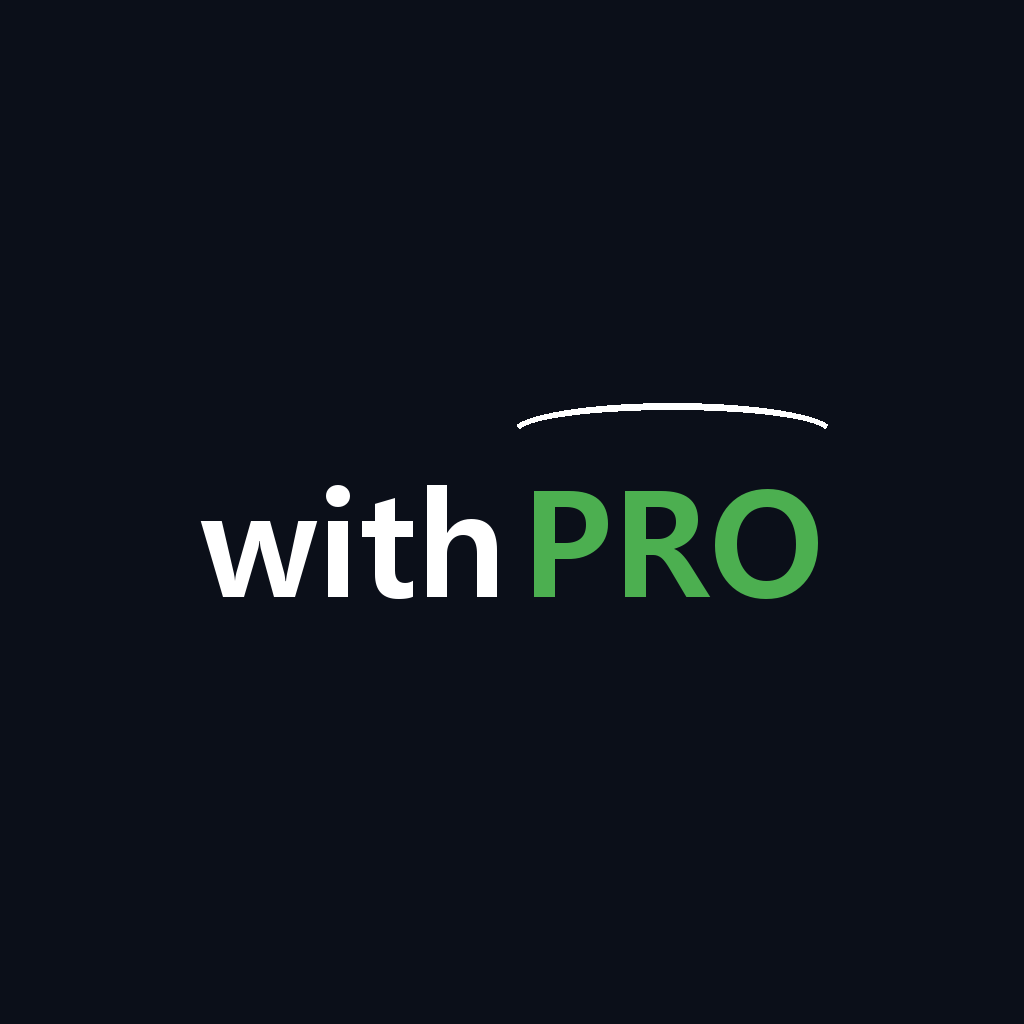
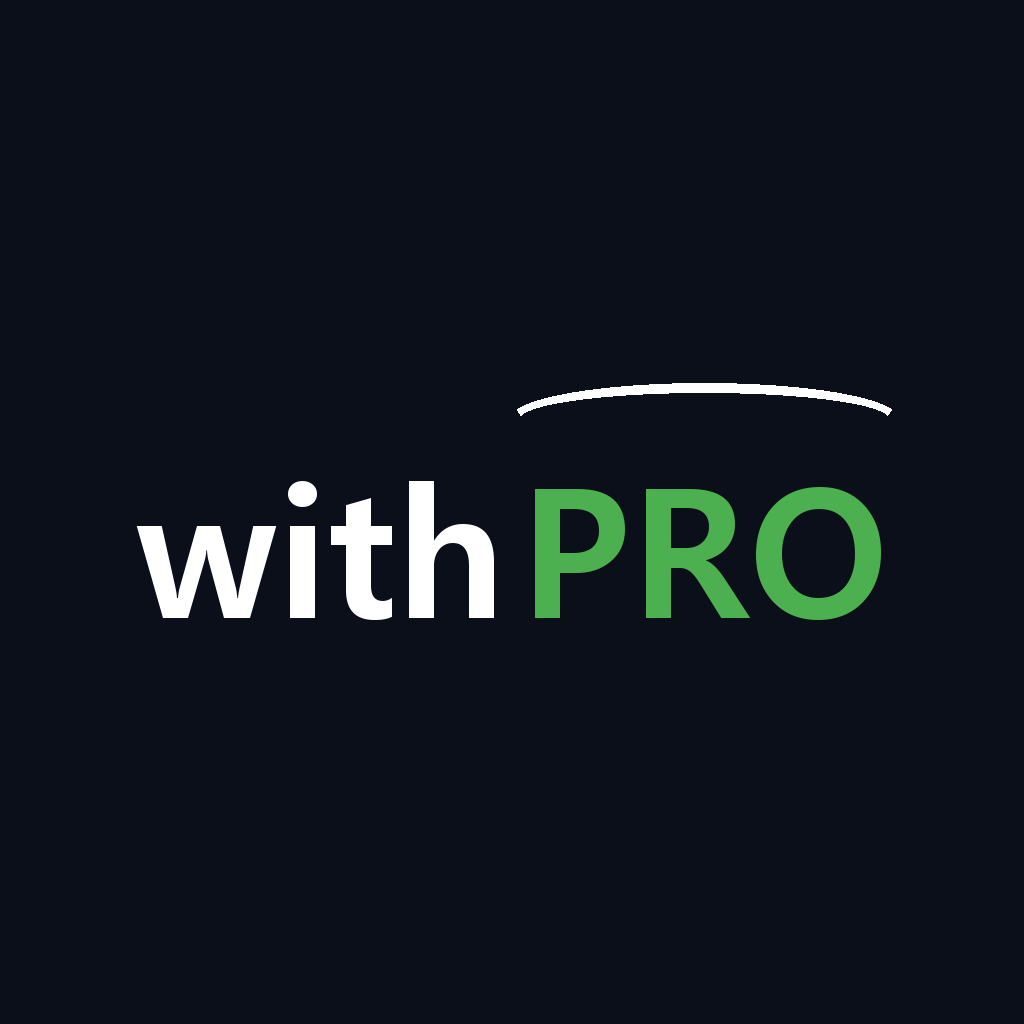
design: 앱 아이콘 로고 텍스트 크기 추가 확대

Changed region(s): [[0.125, 0.4688, 0.875, 0.625], [0.5, 0.375, 0.875, 0.4375]]

diff --git a/generate_app_icon.py b/generate_app_icon.py
@@ -16,7 +16,7 @@ def generate_new_icon():
         font_path = "arialbd.ttf"
         
     # Target width of the logo inside the 1024x1024 icon
-    target_logo_width = 620
+    target_logo_width = 750
     spacing = 15
     
     # Dynamically find the best font size to match target width
@@ -73,7 +73,7 @@ def generate_new_icon():
     arc_x1 = pro_x + int(w_pro) + arc_offset_x
     arc_y1 = logo_y + int(font_size * 0.18)
     
-    arc_width = 7 # Increased thickness for premium feel at large size
+    arc_width = 10 # Increased thickness for premium feel at large size
     draw.arc([arc_x0, arc_y0, arc_x1, arc_y1], start=195, end=345, fill=white, width=arc_width)
     
     # Target paths